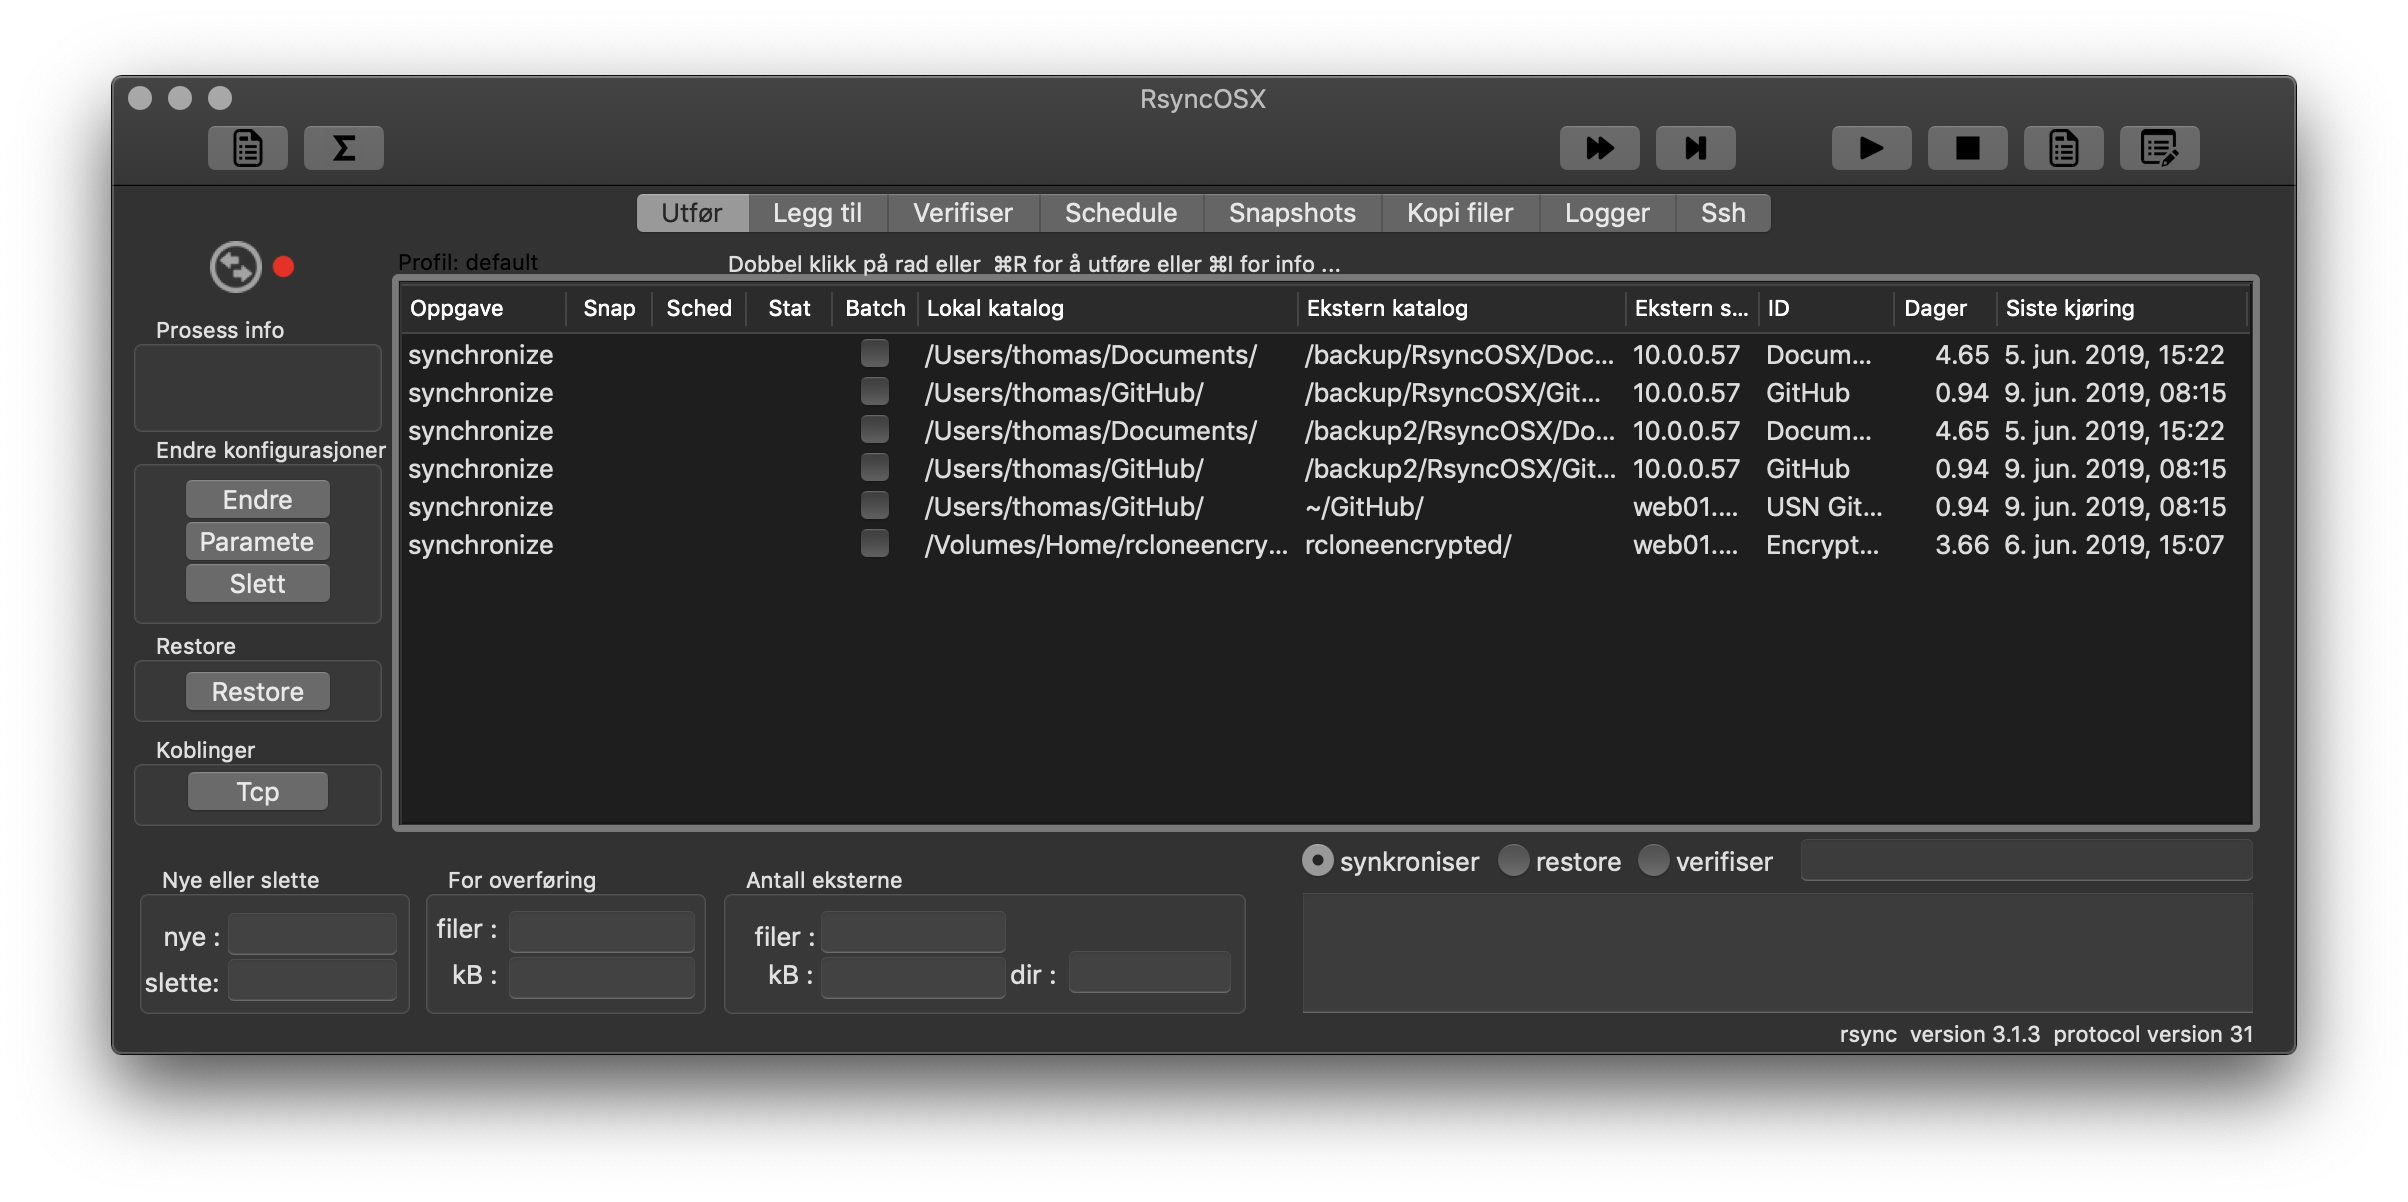
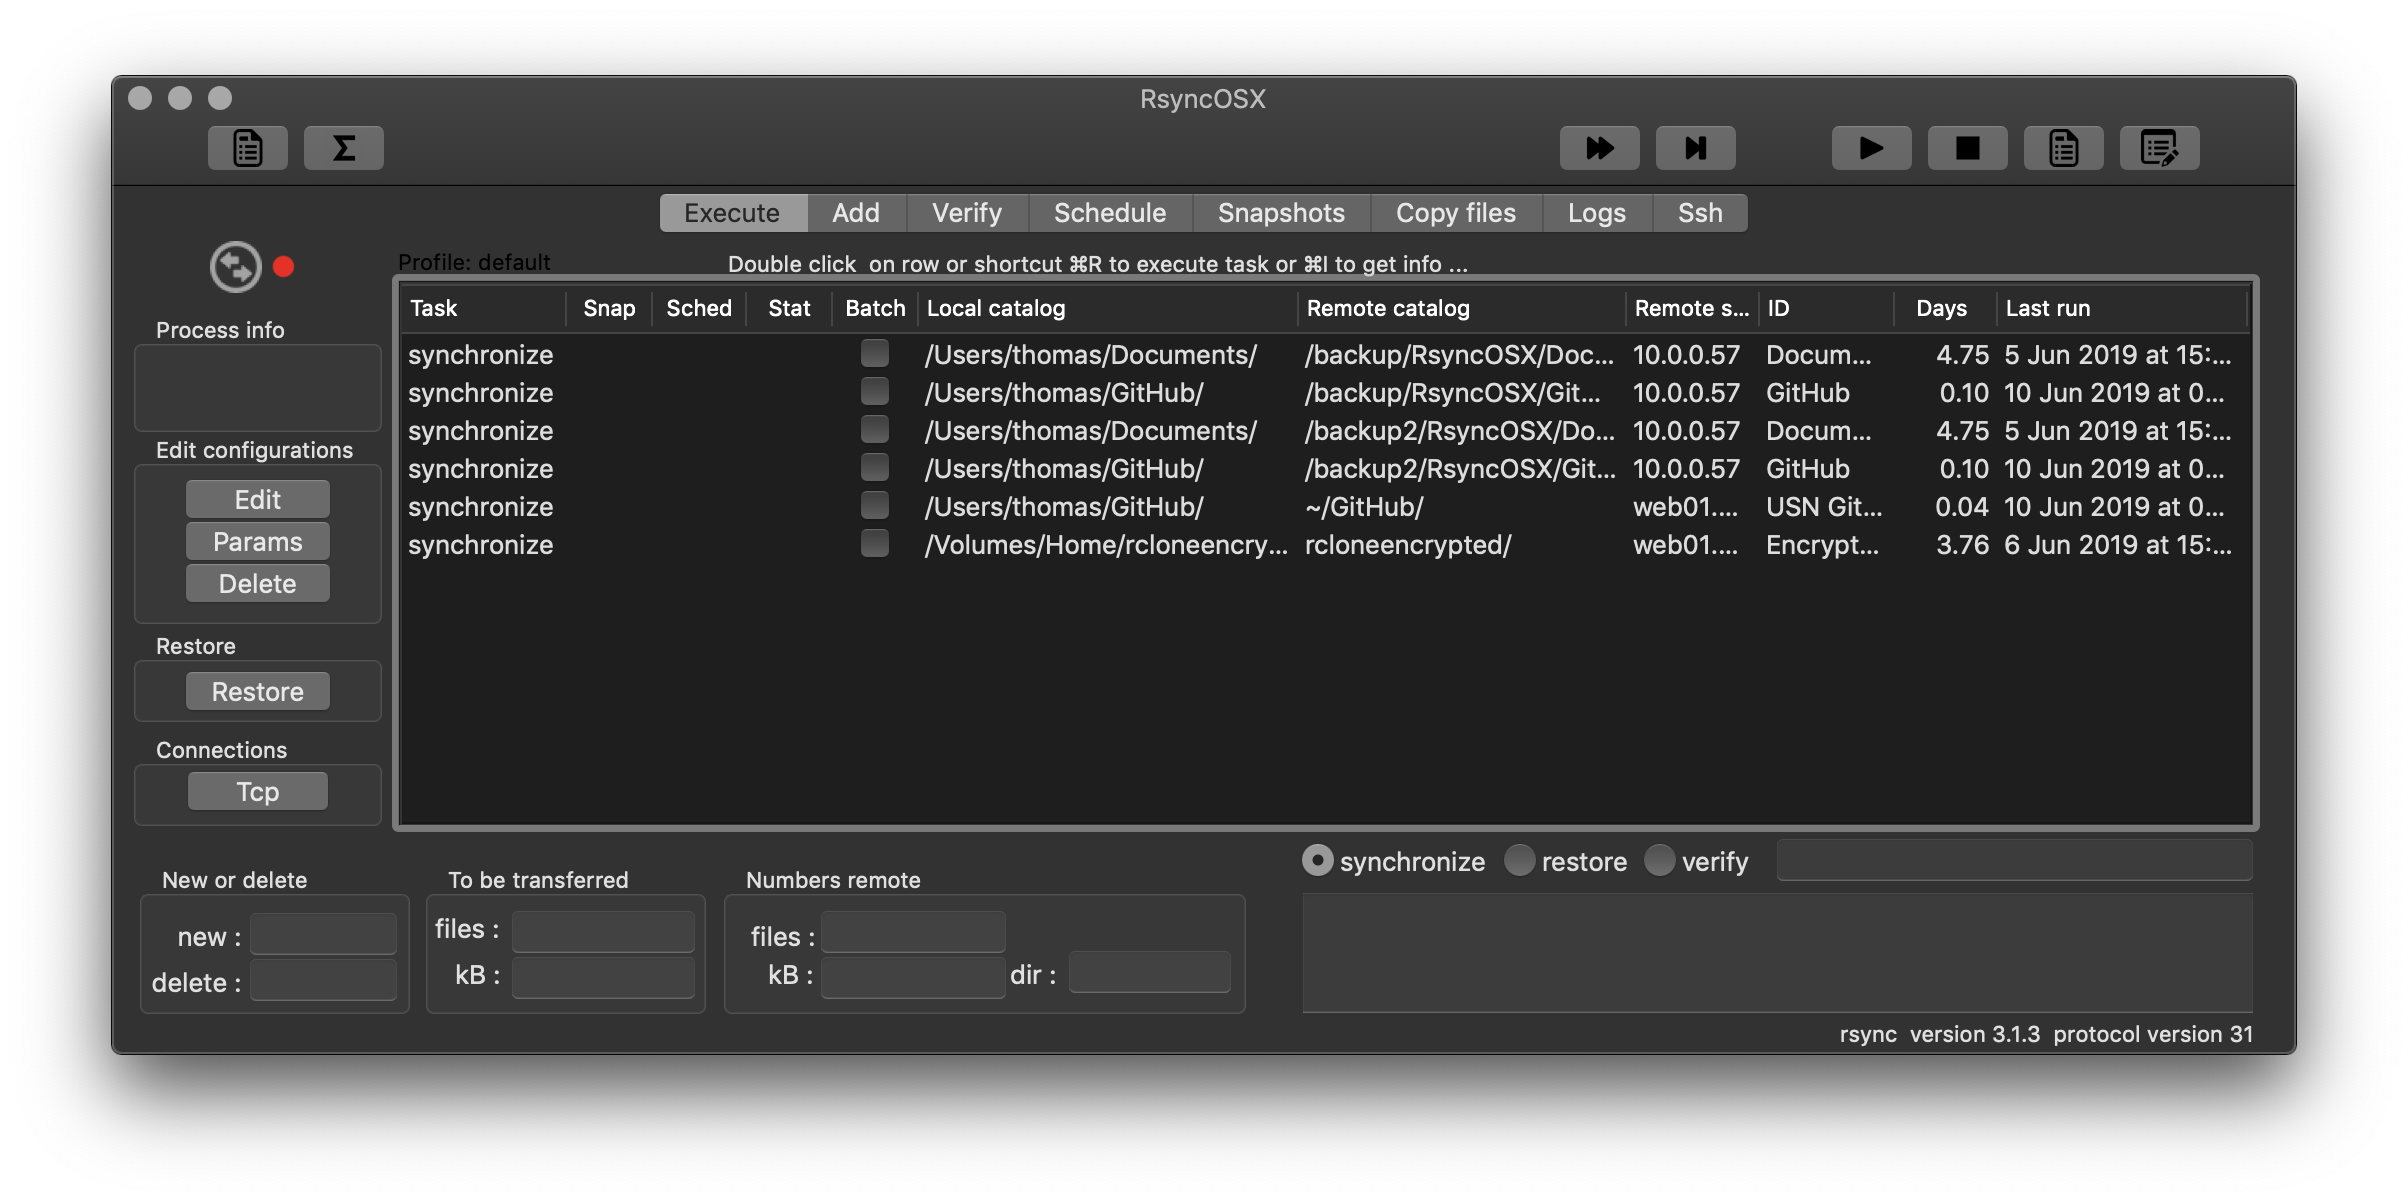
Update

diff --git a/README.md b/README.md
@@ -43,7 +43,7 @@ Fighting bugs are difficult. I am not able to test RsyncOSX for all possible use
 
 The main view of RsyncOSX.
 ![](images/main1.png)
-Automatic synchronizing in action.
+Prepare for synchronizing tasks.
 ![](images/main2.png)
 
 ### About crash?
